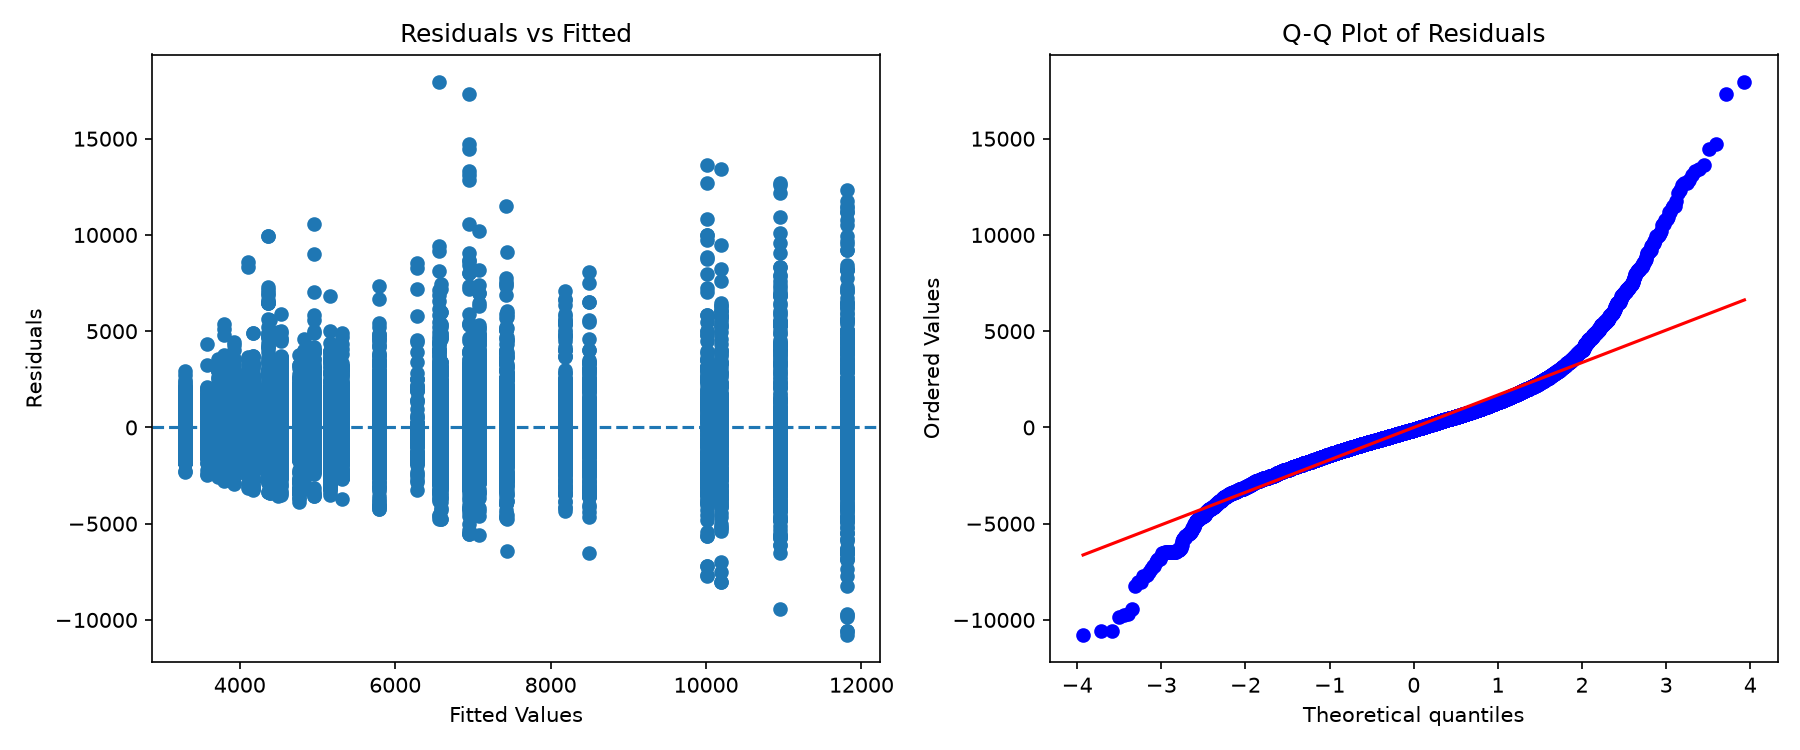
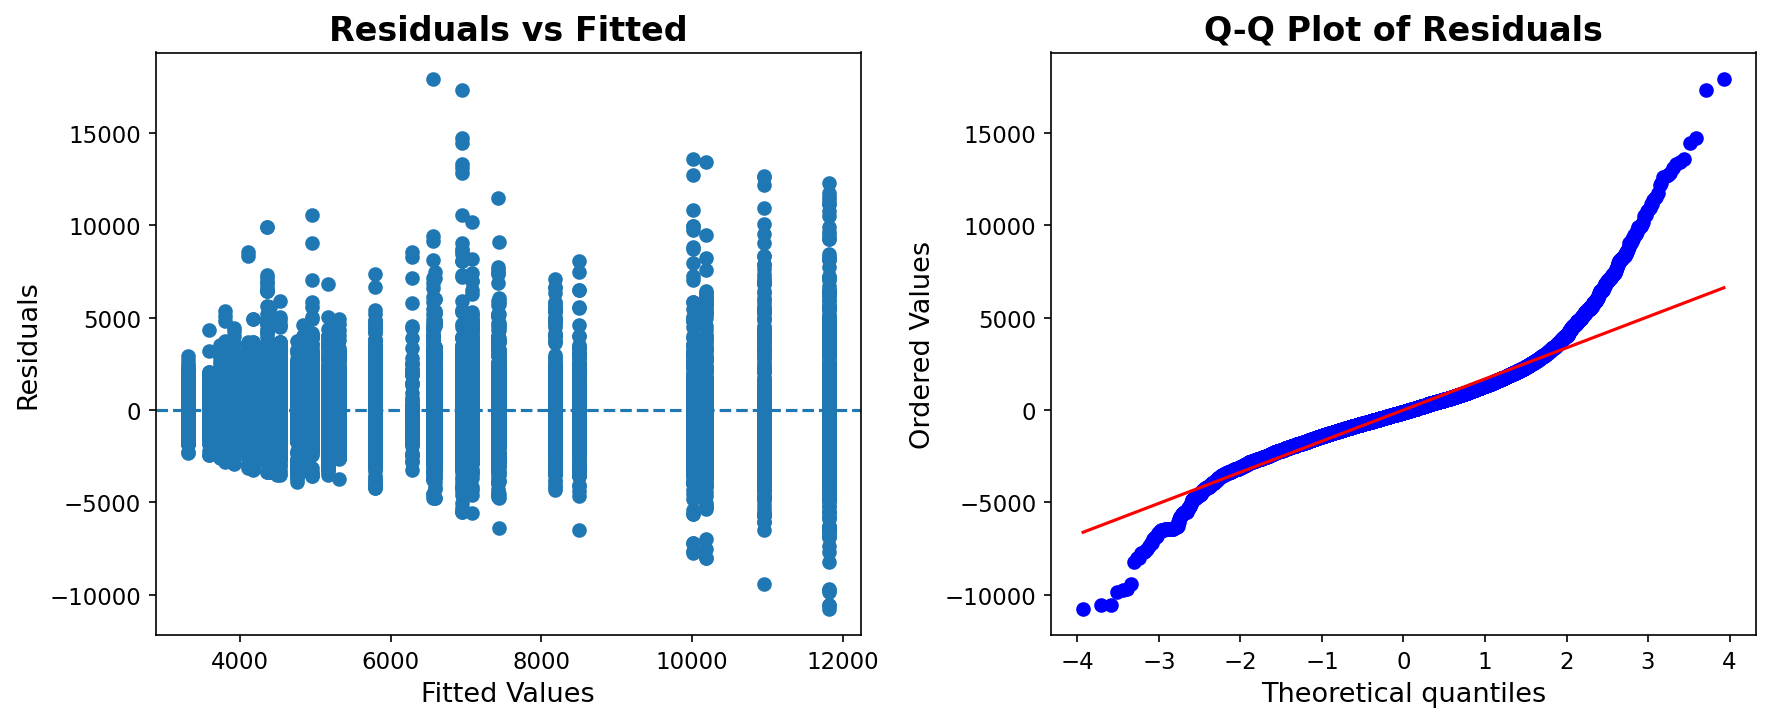
Size the charts for a screen they are not viewed at full size on
The figures were sized for a plot window. They are read scaled down —
on GitHub, and smaller still when shared, where a feed renders an image
about 350px wide. Default 10pt type survives neither.

Global rcParams raise body, title, axis and legend text a few points,
which affects all fifteen figures.

Three figures also had a shape that no font size could rescue:

- macrozone_boxplots was 2400px wide with 32 long zone names rotated
  90 degrees. Scaled to a phone that text stood about 4px tall. Now
  horizontal and portrait, so the names read left to right.
- histograms put three panels in a row, a 3:1 strip 117px tall once
  scaled. Now stacked in a column.
- linear_regression and zone_control were wider than tall for no
  reason the content required; both are closer to square.

The diagnostic panels (Q-Q, residuals, sampling distributions) keep
their wide format: side by side is how those are meant to be compared,
and they are not figures anyone shares.

No data or analysis changed - only figure geometry and type size.

Claude-Session: https://claude.ai/code/session_01GrkUUWpA65LPRa5jwP5M2x

diff --git a/milano_analysis.py b/milano_analysis.py
@@ -10,6 +10,21 @@ import seaborn as sns
 from statsmodels.stats.diagnostic import het_breuschpagan
 from statsmodels.stats.outliers_influence import variance_inflation_factor
 
+# matplotlib's defaults size text for a figure viewed at its natural size. These
+# are read scaled down — on GitHub, and on a phone where the feed is about 350px
+# wide — so everything is set a few points larger than the default.
+plt.rcParams.update({
+    'font.size': 13,
+    'axes.titlesize': 16,
+    'axes.titleweight': 'semibold',
+    'axes.labelsize': 13,
+    'xtick.labelsize': 11,
+    'ytick.labelsize': 11,
+    'legend.fontsize': 12,
+    'figure.constrained_layout.use': False,
+    'savefig.bbox': 'tight',
+})
+
 # load data
 df_raw = pd.read_csv('immobiliare_milano_vendita.csv')
 
@@ -346,7 +361,9 @@ def plot_hist(df_clean):
     mean = hist_data.mean()
     median = hist_data.median()
 
-    fig, axes = plt.subplots(1, 3, figsize=(15, 5))
+    # stacked rather than side by side: three panels in a row make a 3:1 strip
+    # in which nothing survives being scaled down
+    fig, axes = plt.subplots(3, 1, figsize=(9, 12))
     axes[0].hist(hist_data['price'], bins=30)
     axes[0].set_title('Price')
     axes[0].set_ylabel('Frequency')
@@ -926,12 +943,14 @@ def plot_macrozone_boxplots(df_clean):
         for macrozone in macrozone_order
     ]
 
-    plt.figure(figsize=(16, 8))
-    plt.boxplot(data, tick_labels=macrozone_order)
+    # horizontal, so the 32 zone names read left to right instead of rotated
+    # 90 degrees. The names are long, and vertical they cost more height than
+    # the plot itself and become unreadable as soon as the figure is scaled.
+    plt.figure(figsize=(11, 13))
+    plt.boxplot(data, tick_labels=macrozone_order, vert=False)
     plt.title('Price per m² by Macrozone')
-    plt.xlabel('Macrozone')
-    plt.ylabel('Price per m² (€ / m²)')
-    plt.xticks(rotation=90)
+    plt.xlabel('Price per m² (€ / m²)')
+    plt.grid(axis='x', alpha=0.3)
 
     plt.tight_layout()
     plt.savefig('charts/macrozone_boxplots.png', dpi=150)
@@ -1117,12 +1136,13 @@ def plot_linear_regression(df_clean, model):
     y = regression_data['price']
     predicted = model.predict(sm.add_constant(x))
 
-    plt.figure(figsize=(10, 6))
+    plt.figure(figsize=(9, 8))
     plt.scatter(x, y, alpha=0.3)
     plt.plot(x, predicted, color='red')
     plt.title('Linear Regression: Price vs Surface')
     plt.xlabel('Surface (m²)')
     plt.ylabel('Price (€)')
+    plt.grid(alpha=0.3)
 
     plt.tight_layout()
     plt.savefig('charts/linear_regression.png', dpi=150)
@@ -1517,7 +1537,7 @@ def plot_zone_control(without_zone, model):
     height = 0.38
 
     # the axis is inverted below, so the smaller offset is the upper bar
-    plt.figure(figsize=(10, 5))
+    plt.figure(figsize=(9, 6.5))
     plt.barh(position - height / 2, before, height, label='without zone')
     plt.barh(position + height / 2, after, height, label='with zone')
 
